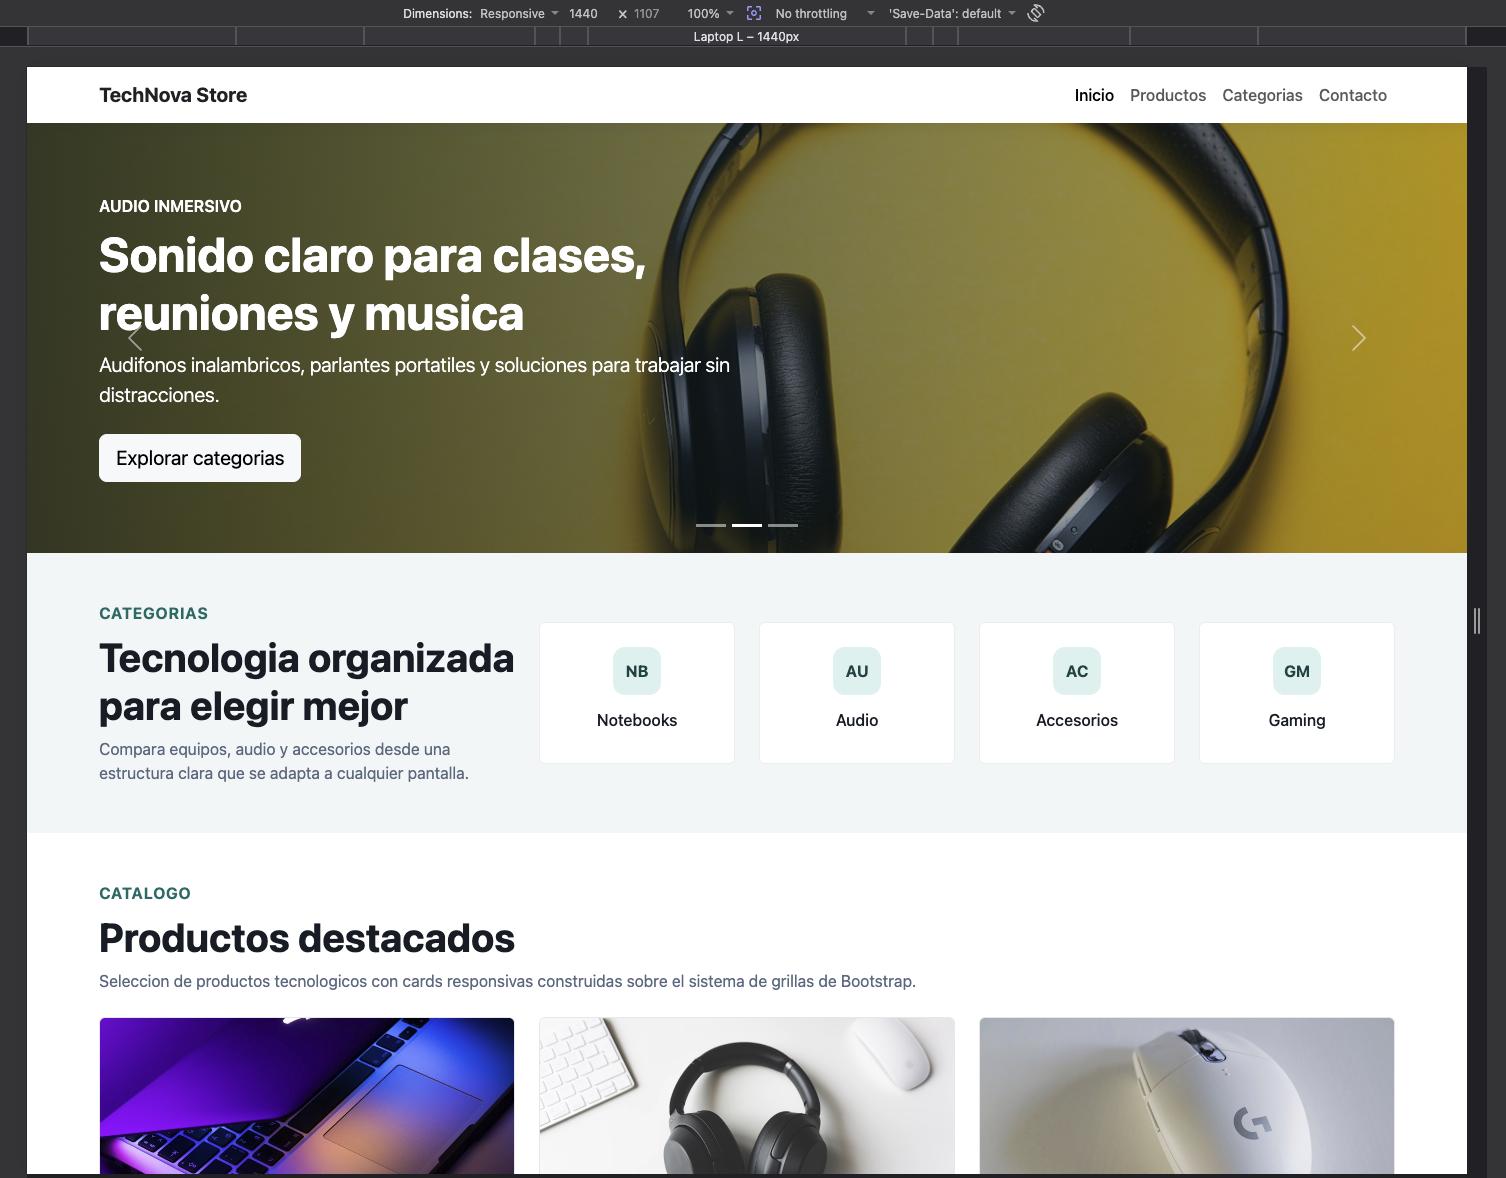
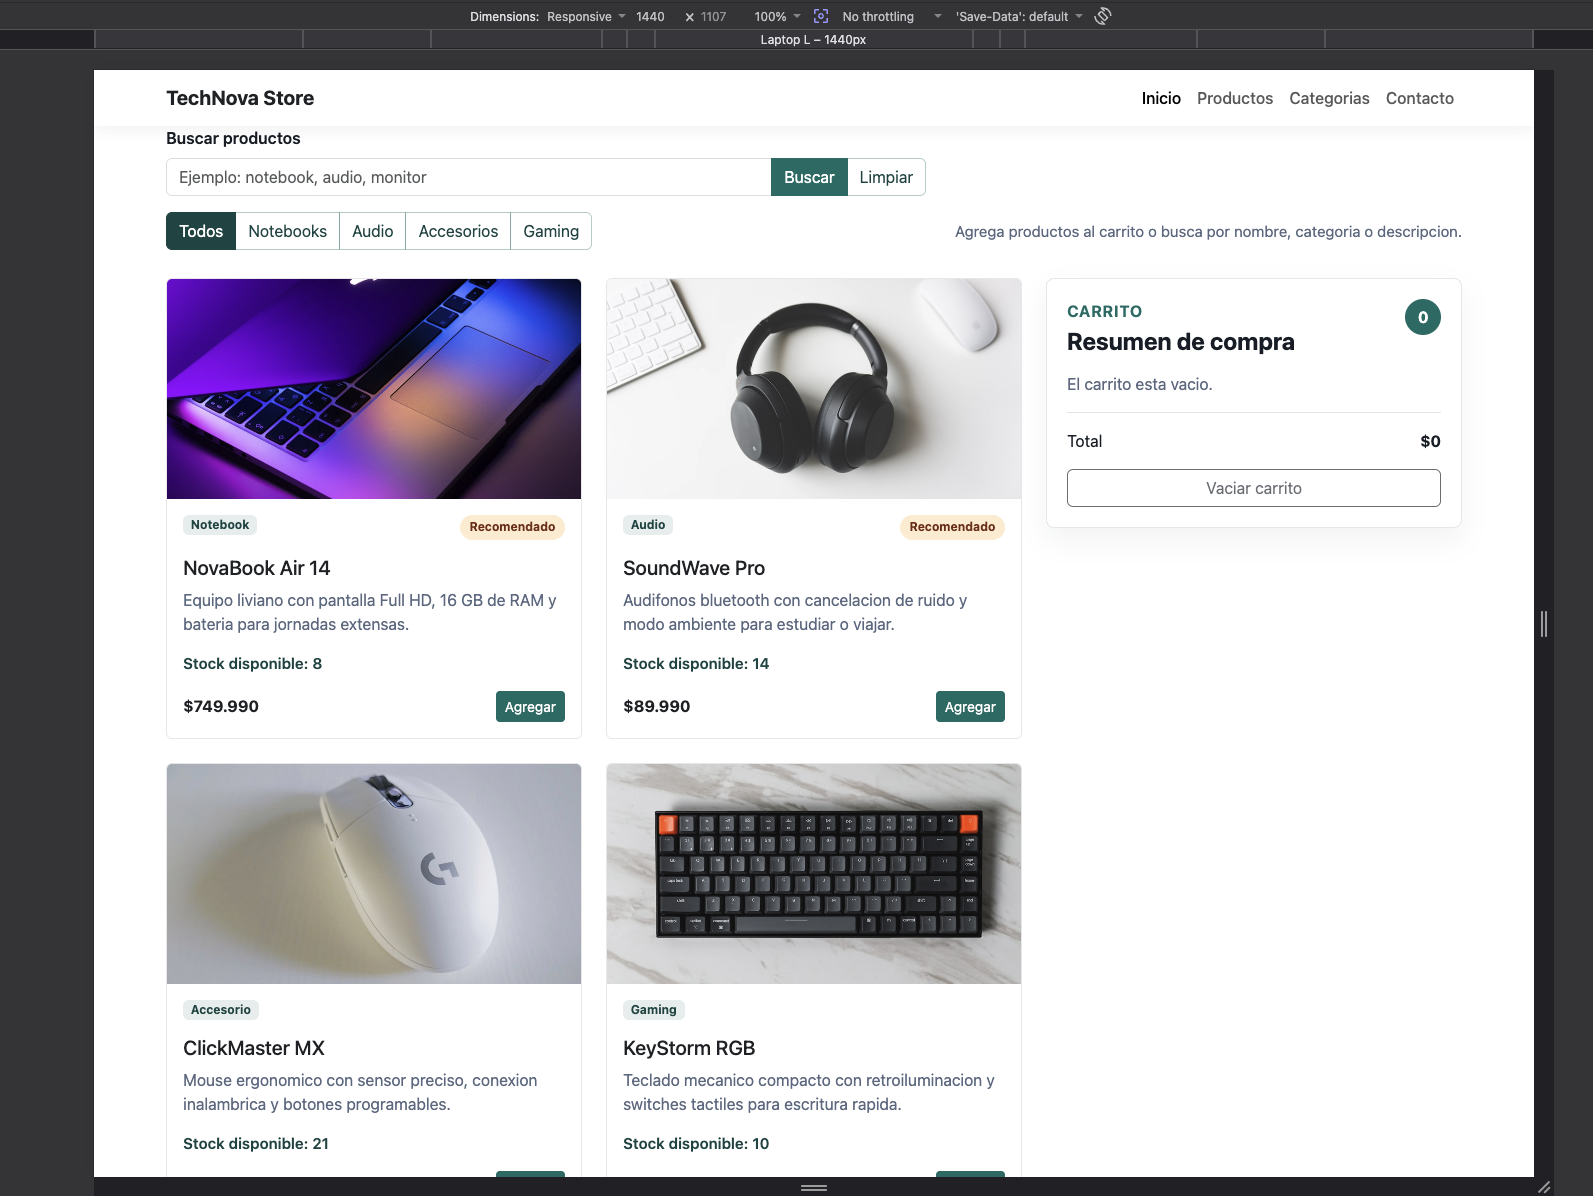
Update README and final screenshots

diff --git a/README.md b/README.md
@@ -1,10 +1,10 @@
 # TechNova Store
 
-Actividad formativa de la Semana 5 para Desarrollo Frontend I. El proyecto toma como base el sitio responsivo creado en la Semana 4 y agrega interactividad con JavaScript, manipulacion del DOM, eventos y carga de datos externos con Fetch API.
+Actividad sumativa de la Semana 6 para Desarrollo Frontend I. El proyecto implementa una pagina eCommerce responsiva con Bootstrap 5 y JavaScript, usando datos desde un archivo JSON local, busqueda dinamica, manipulacion del DOM y carrito de compras.
 
 ## Descripcion
 
-TechNova Store presenta un catalogo de productos tecnologicos. La pagina incluye una barra de navegacion responsiva, un carrusel promocional, filtros por categoria, cards de productos generadas dinamicamente, seleccion de productos para consulta y un formulario validado con JavaScript.
+TechNova Store presenta un catalogo de productos tecnologicos cargado dinamicamente desde `assets/data/productos.json`. La interfaz permite buscar productos mientras se escribe, filtrar por categorias simuladas, agregar productos al carrito, controlar cantidades sin superar el stock disponible y visualizar el total de compra.
 
 ## Tecnologias utilizadas
 
@@ -13,21 +13,23 @@ TechNova Store presenta un catalogo de productos tecnologicos. La pagina incluye
 - Bootstrap 5 por CDN
 - JavaScript
 - Fetch API
-- JSON local para datos de productos
-- Imagenes locales en JPG
-- Versiones WebP para mobile
+- JSON local
+- Imagenes locales en JPG y WebP
 
-## Funcionalidades de Semana 5
+## Funcionalidades principales
 
-- Carga de productos desde `assets/data/productos.json`.
-- Renderizado dinamico de cards mediante JavaScript.
-- Manipulacion del DOM para actualizar catalogo, resumen, mensajes y opciones del formulario.
-- Filtros por categoria con evento `click`.
-- Detalle rapido de producto mediante evento `mouseover` y foco de teclado.
-- Boton `Consultar` para seleccionar un producto y completar el campo correspondiente del formulario.
-- Validacion de formulario con evento `submit`.
-- Mensajes de error y exito mostrados dentro de la pagina.
-- Manejo de errores si no se puede cargar el archivo JSON.
+- Navbar responsiva con Bootstrap 5.
+- Carrusel promocional con imagenes locales.
+- Categorias simuladas para productos.
+- Cards de productos renderizadas dinamicamente.
+- Busqueda de productos mediante formulario con evento `submit`.
+- Busqueda instantanea con evento `input`.
+- Evento `click` para agregar productos al carrito.
+- Carrito dinamico con cantidades, total y validacion de stock.
+- Botones para sumar, restar y vaciar productos del carrito.
+- Manejo de errores si el archivo JSON no carga correctamente.
+- Formulario de contacto validado con JavaScript.
+- Codigo separado en HTML, CSS, JavaScript, JSON e imagenes.
 
 ## Estructura del proyecto
 
@@ -40,56 +42,21 @@ Desarrollo_Frontend_I_Exp2/
 │   │   └── styles.css
 │   ├── data/
 │   │   └── productos.json
-│   └── images/
-│       ├── hero/
-│       │   ├── audio.jpg
-│       │   ├── notebooks.jpg
-│       │   ├── setup.jpg
-│       │   └── mobile/
-│       │       ├── audio.webp
-│       │       ├── notebooks.webp
-│       │       └── setup.webp
-│       └── products/
-│           ├── headphones.jpg
-│           ├── keyboard.jpg
-│           ├── monitor.jpg
-│           ├── mouse.jpg
-│           ├── notebook.jpg
-│           ├── speaker.jpg
-│           └── mobile/
-│               ├── headphones.webp
-│               ├── keyboard.webp
-│               ├── monitor.webp
-│               ├── mouse.webp
-│               ├── notebook.webp
-│               └── speaker.webp
+│   ├── img/
+│   │   ├── hero/
+│   │   └── products/
 │   └── js/
 │       └── app.js
 └── screenshots/
     ├── desktop.png
-    ├── tablet.png
+    ├── busqueda.png
+    ├── carrito.png
     └── mobile.png
 ```
 
-## Requisitos implementados
-
-- Navbar responsiva con Bootstrap.
-- Carousel de Bootstrap configurado con cambio automatico cada 3 segundos.
-- Sistema Grid para adaptar el contenido a distintos tamanos de pantalla.
-- Cards dinamicas para presentar productos tecnologicos.
-- Codigo separado en HTML, CSS y JavaScript externo.
-- Eventos `click`, `mouseover` y `submit`.
-- Uso de Fetch API para cargar datos desde JSON.
-- Validaciones de formulario con JavaScript.
-- Imagenes descargadas localmente para evitar dependencia de internet en recursos visuales.
-- Versiones WebP optimizadas para mobile.
-- Textos alternativos en imagenes para mejorar accesibilidad.
-
 ## Como ejecutar el proyecto
 
-Para que Fetch API cargue correctamente el archivo JSON, se recomienda abrir el sitio desde un servidor local o desde GitHub Pages.
-
-Ejemplo con Python:
+Para que Fetch API cargue correctamente el archivo JSON, se recomienda ejecutar el proyecto desde un servidor local o desde GitHub Pages.
 
 ```bash
 python3 -m http.server 8000
@@ -101,29 +68,26 @@ Luego abre:
 http://localhost:8000
 ```
 
-## Pruebas recomendadas
-
-- Confirmar que el catalogo carga los 6 productos desde el JSON.
-- Probar filtros: Todos, Notebooks, Audio, Accesorios y Gaming.
-- Pasar el mouse sobre una card y verificar el detalle rapido.
-- Presionar `Consultar` y comprobar que se selecciona el producto en el formulario.
-- Enviar el formulario vacio y validar el mensaje de error.
-- Enviar un correo invalido y validar el mensaje correspondiente.
-- Completar todos los campos y confirmar el mensaje de exito.
-- Revisar la pagina en escritorio, tablet y movil.
-
 ## Capturas de pantalla
 
-Agrega aqui las capturas solicitadas por la actividad.
+### Vista principal en escritorio
 
-### Escritorio
+![Vista principal en escritorio](screenshots/desktop.png)
 
-![Captura de escritorio](screenshots/desktop.png)
+### Busqueda de productos
 
-### Tablet
+![Busqueda de productos](screenshots/busqueda.png)
 
-![Captura de tablet](screenshots/tablet.png)
+### Carrito de compras
 
-### Movil
+![Carrito de compras](screenshots/carrito.png)
 
-![Captura de movil](screenshots/mobile.png)
+### Vista movil
+
+![Vista movil](screenshots/mobile.png)
+
+## Publicacion
+
+- Repositorio GitHub: [Enlace Directo](https://github.com/Arekkusu17/Desarrollo_Frontend_I_Exp2)
+- Sitio publicado: [GitHub Pages](https://arekkusu17.github.io/Desarrollo_Frontend_I_Exp2/)
+
